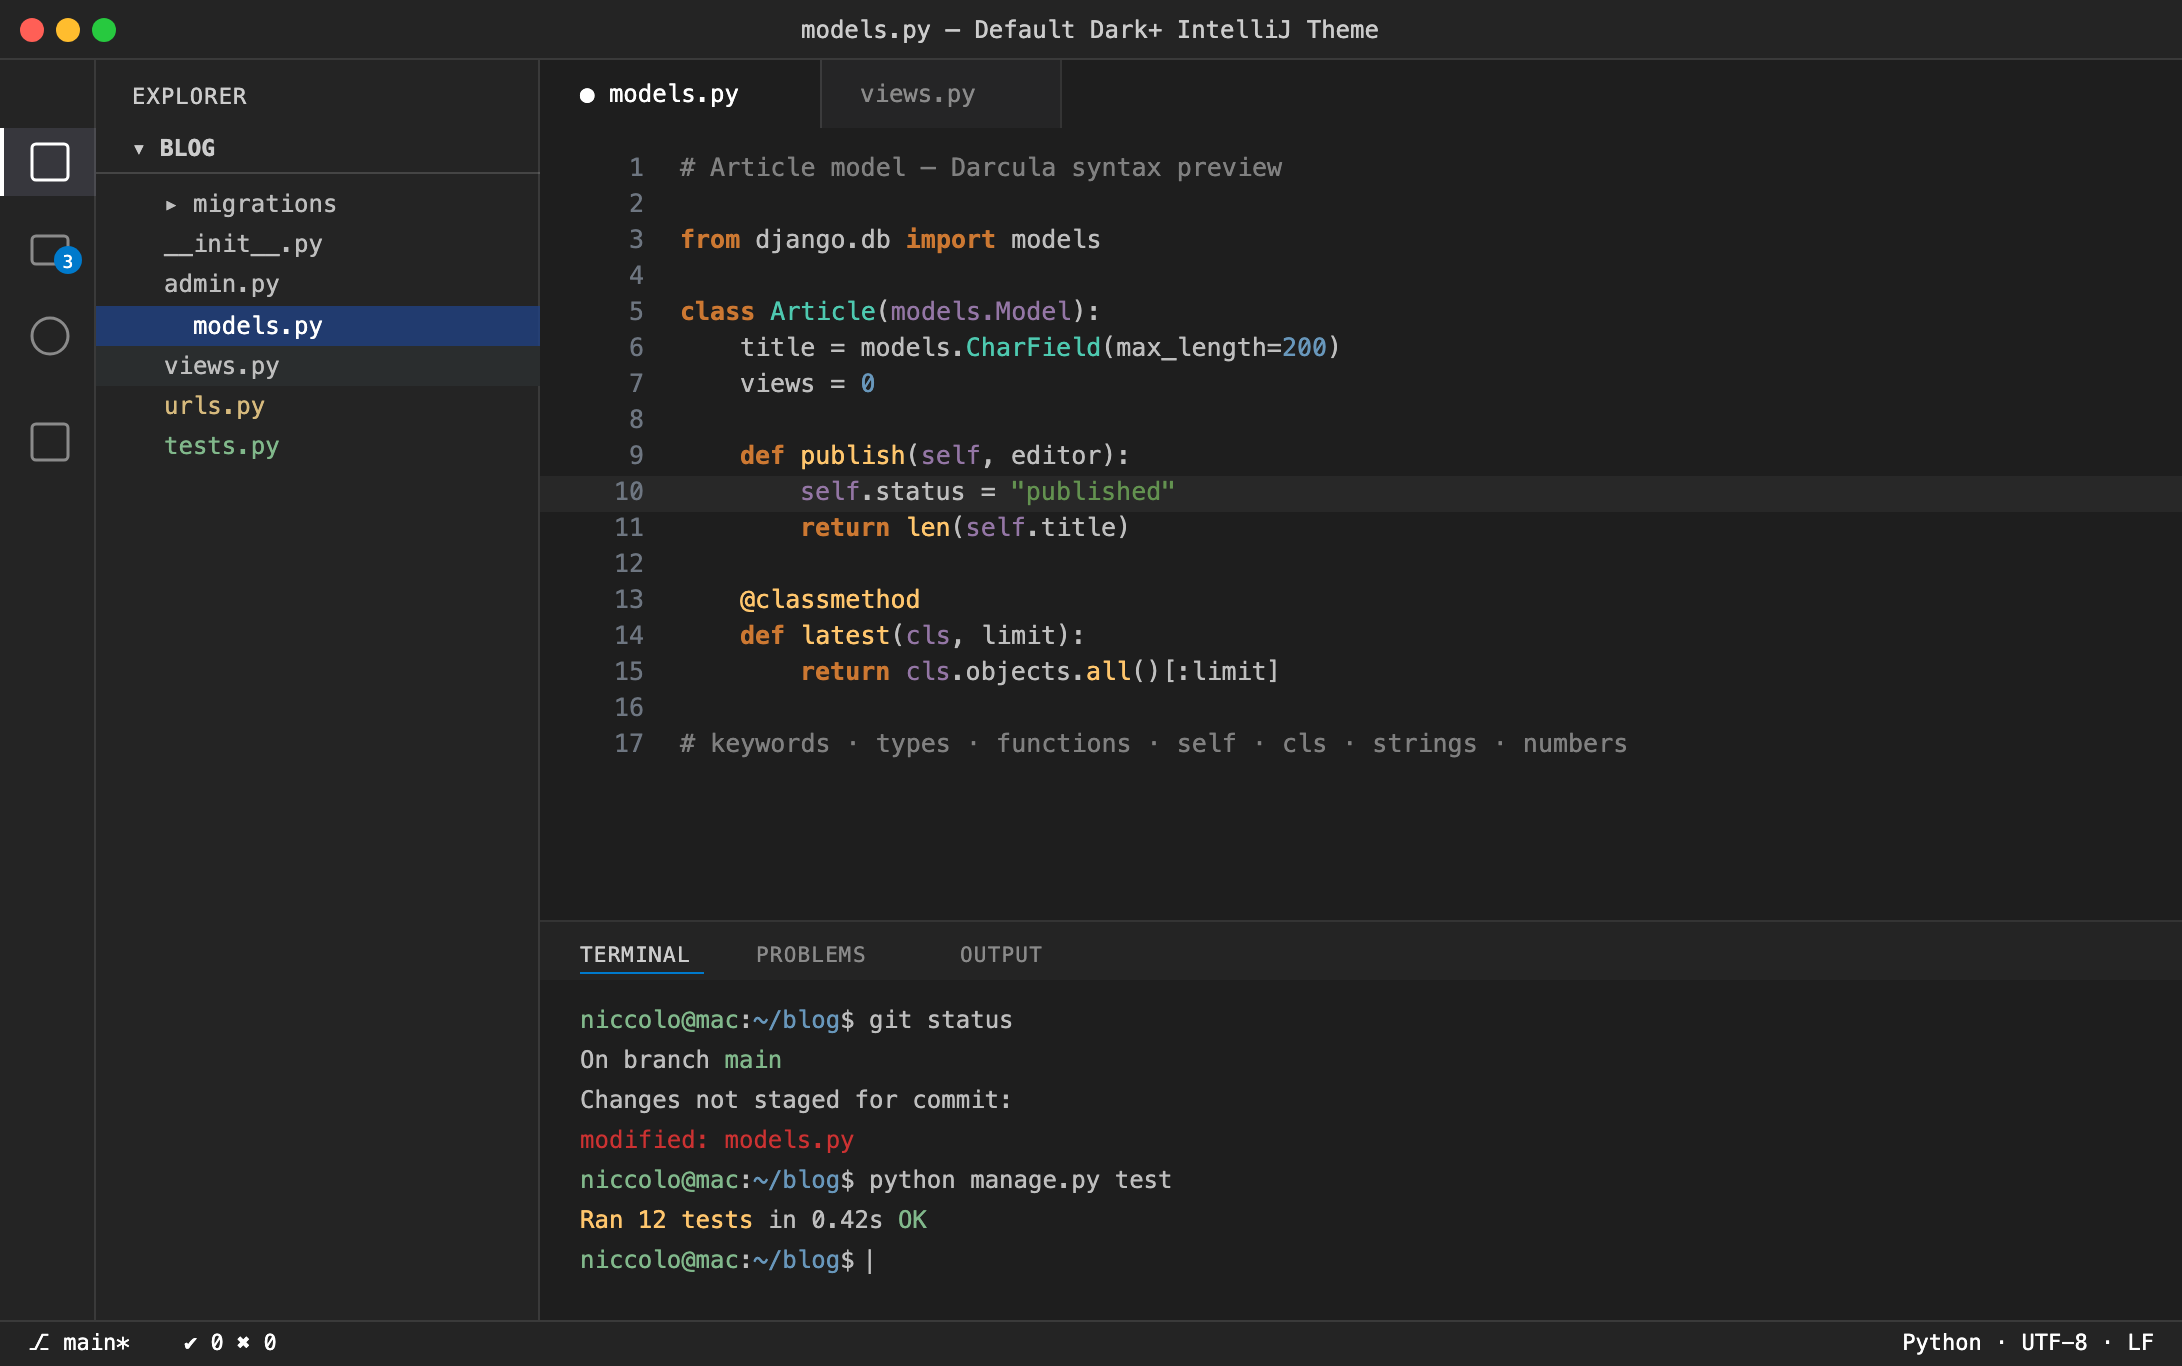
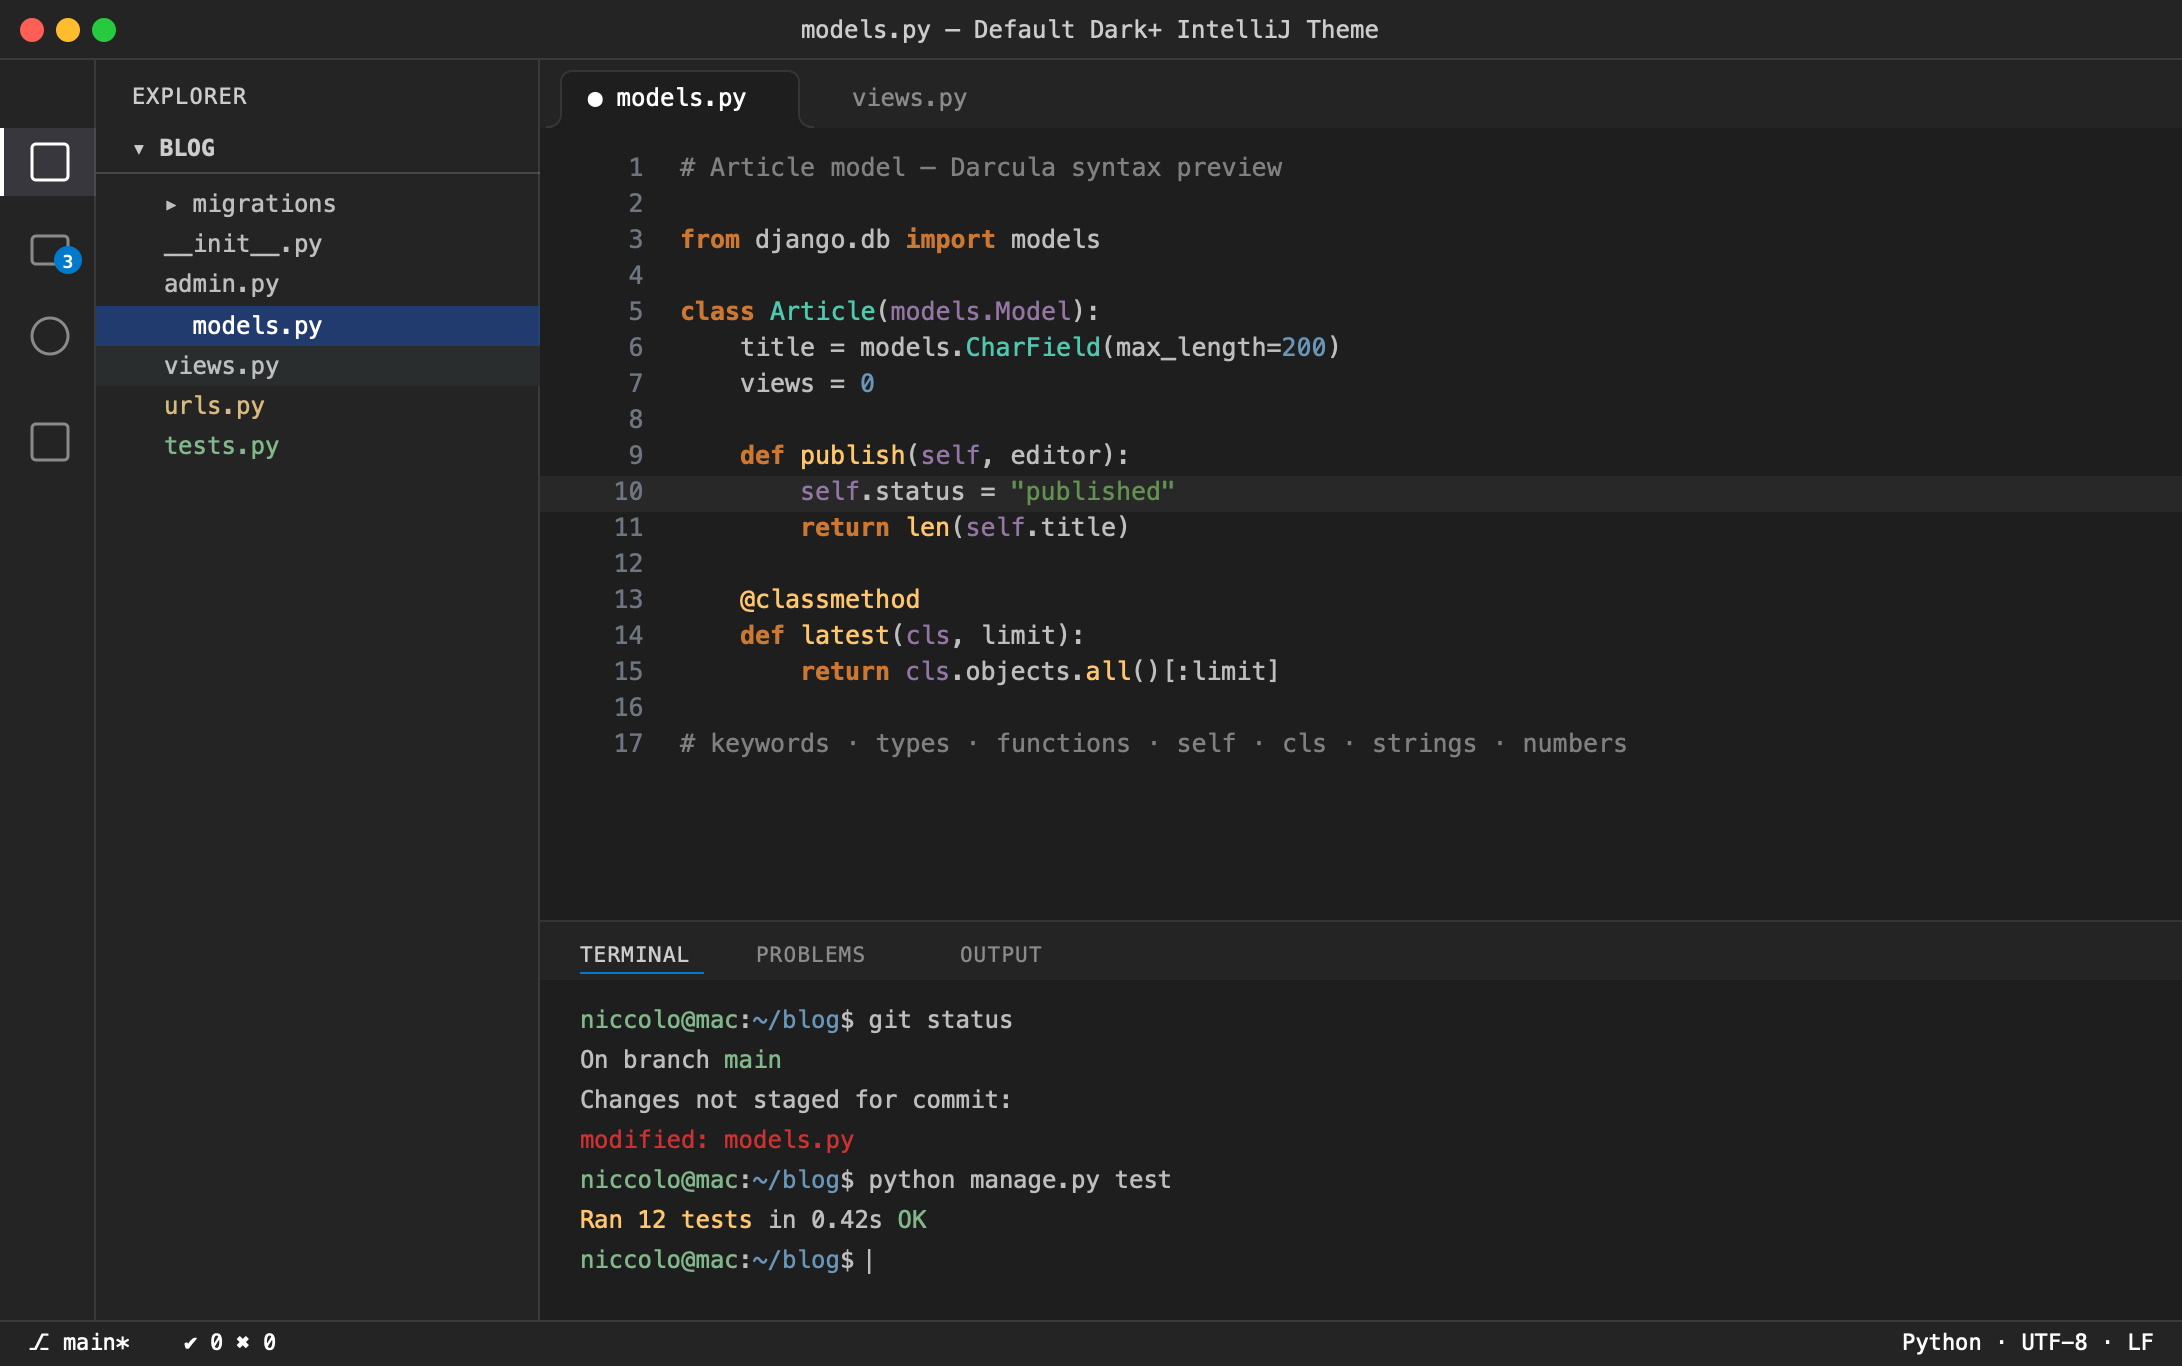
Expand the pre-1.4.0 changelog entries and refresh the screenshot

Changed region(s): [[0.2493, 0.0615, 0.3428, 0.0922], [0.4051, 0.0615, 0.4363, 0.0922], [0.374, 0.4305, 0.4051, 0.4612]]

diff --git a/CHANGELOG.md b/CHANGELOG.md
@@ -65,34 +65,46 @@
 
 ## v1.3.3
 
-- More bold restoration for #CC7832 tokens
+- Restore bold on more of the Darcula keyword-orange (`#CC7832`) scopes — with this release all 14 of them render bold: `keyword`, `keyword.control`, `constant.language`, `storage.type`, `storage.modifier`, `meta.preprocessor`, `meta.diff.header`, the `new`, `sizeof`, cast and expression operators, Python's logical operators, and PHP's `<?php` / `?>` tags
+
+## v1.3.2
+
+- Add styling fixes
+
+## v1.3.1
+
+- Add styling fixes
 
 ## v1.3.0
 
-- Move some tokens to different color
-- Group token scopes by setting
+- Move some tokens to a different color
+- Reorganize `tokenColors` by setting: each color or font style is declared once, in a single rule listing every scope that uses it, so bold is applied by its own `fontStyle` rule rather than alongside a color
 
 ## v1.2.0
 
-- Rename theme
-- Revamp icon
+- Rename the theme from **Nights Theme** to **Default Dark+ IntelliJ Theme**, and the GitHub repository from `vscode-nights-theme` to `vscode-default-dark-plus-intellij-theme`
+- Revamp the icon into a round tile with a grey radial gradient and rows of colored code strokes
 
 ## v1.1.7
 
-- Style status bar when no folder is open
+- Set `statusBar.noFolderBackground` and `statusBar.noFolderForeground`, so the status bar keeps the theme's colors when no folder is open instead of switching to VSCode's stock purple (`#68217A`)
 
 ## v1.1.6
 
-- Change icon
+- Change the icon
 
 ## v1.1.5
 
-- Add more styling fixes
+- Add styling fixes
 
 ## v1.1.4
 
-- Make sidebar panels style consistent
+- Make the side bar panels' style consistent
+
+## v1.1.3
+
+- Add styling fixes
 
 ## v1.1.2
 
-- Initial release
+- First release
